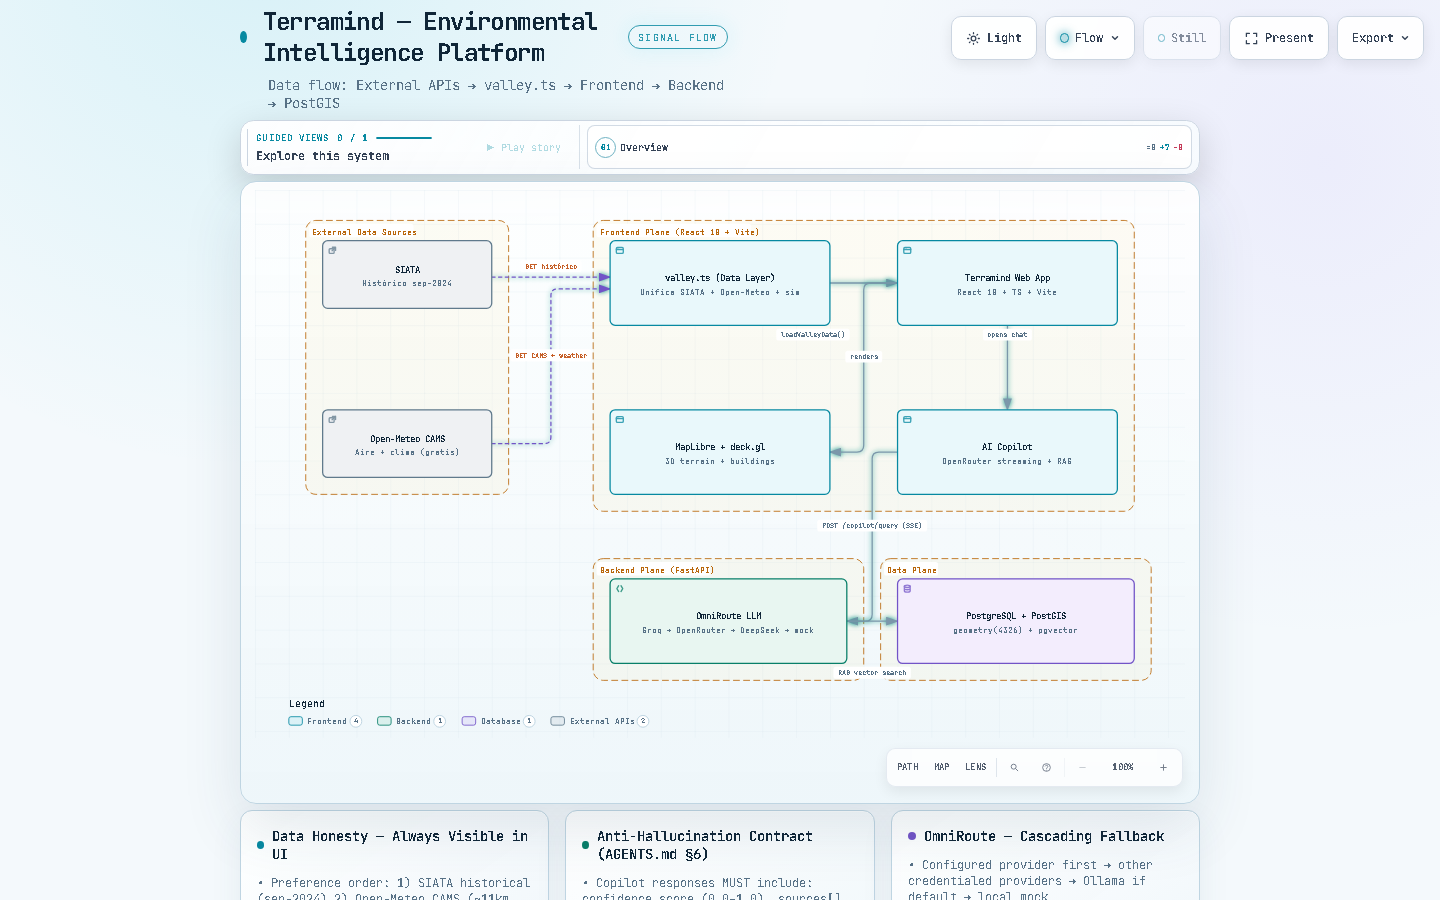
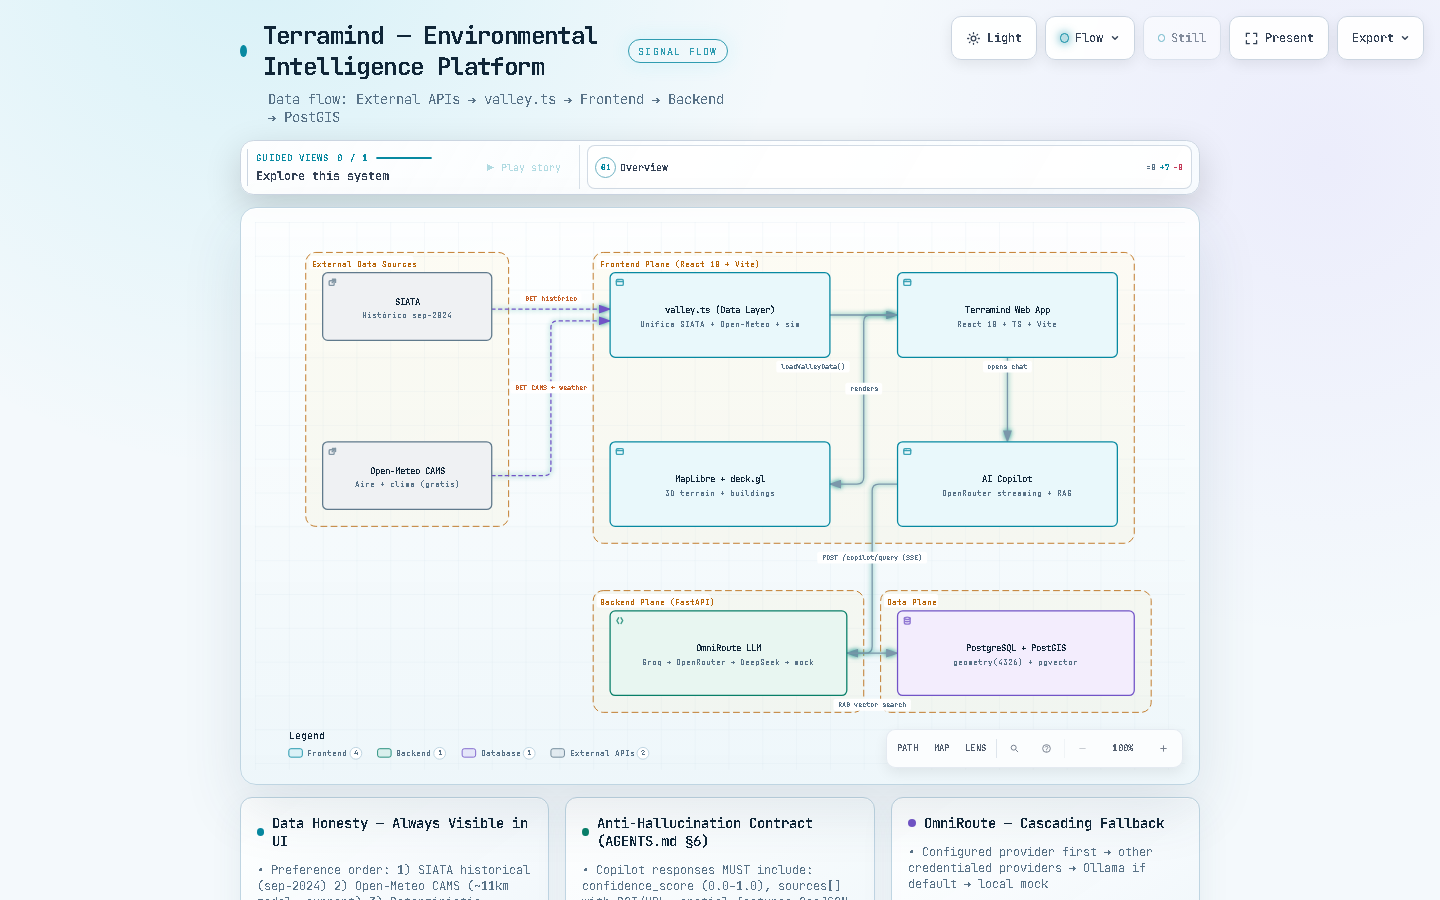
docs(readme): full RAG table, 11 tabs, verified diagram state

diff --git a/docs/architecture-terramind.html b/docs/architecture-terramind.html
@@ -5574,15 +5574,14 @@ OTHER DEALINGS IN THE FONT SOFTWARE.
       <div class="card">
         <div class="card-header">
           <div class="card-dot amber"></div>
-          <h3>Current State (PRD §11 — UI-First Integration)</h3>
+          <h3>Current State (verified in code)</h3>
         </div>
         <ul>
-          <li>&bull; ✅ Base 3D map + 10 SIATA stations geolocated</li>
-          <li>&bull; ✅ Fixed sidebar (260px) + floating chat widget</li>
-          <li>&bull; ⏳ Pending: 3D terrain + extruded buildings (OpenFreeMap)</li>
-          <li>&bull; ⏳ Pending: Dashboard modal overlay + 5 tabs + Recharts</li>
-          <li>&bull; ⏳ Pending: SSE streaming in chat + generation actions</li>
-          <li>&bull; ⏳ Pending: App.tsx wiring — Dashboard button opens overlay</li>
+          <li>&bull; ✅ 3D terrain + extruded buildings with toggle (AirMap, MapViewport, basemaps)</li>
+          <li>&bull; ✅ Dashboard overlay with 11 tabs wired from sidebar (App.tsx)</li>
+          <li>&bull; ✅ SSE streaming chat + generation actions (ChatWidget, openRouter)</li>
+          <li>&bull; ⏳ 100% live data without fallback (hybrid SIATA + Open-Meteo + simulated)</li>
+          <li>&bull; ⏳ Mobile responsive design (desktop-first per PRD §9)</li>
         </ul>
       </div>
     </div>

diff --git a/README.md b/README.md
@@ -44,7 +44,7 @@
 | Capacidad | Estado | Evidencia |
 |---|---|---|
 | Mapa 3D con terreno + edificios extruidos | ✅ Activo (con toggle) | `AirMap.tsx` (setTerrain), `MapViewport.tsx`, `basemaps.ts` (fill-extrusion) |
-| Dashboard overlay con 5 pestañas | ✅ Cableado | `App.tsx:395` (`dashboardOpen && <AirDashboard/>`) |
+| Dashboard overlay con 11 pestañas | ✅ Cableado | `App.tsx:395` (`dashboardOpen && <AirDashboard/>`) |
 | Chat con streaming SSE | ✅ Activo | `ChatWidget.tsx`, `openRouter.ts` (getReader) |
 | Datos híbridos SIATA + Open-Meteo + simulado | ✅ Activo | `valley.ts` (anti-corruption layer, 17 servicios) |
 | Backend FastAPI (copilot, health, rag, spatial) | ✅ Implementado | `apps/api/app/api/v1/endpoints/` |
@@ -160,8 +160,22 @@ Apache 2.0 — ver [LICENSE](./LICENSE).
 
 Normativa ambiental oficial indexada para el copiloto con citas (`data/rag_library/` — ver `MANIFEST.csv` y `README_INGESTA.md`):
 
-- **Normas**: Decreto 1076/2015, Ley 99/1993, Ley 1333/2009, Res. 631/2015 (vertimientos), Res. 2254/2017 (aire), Res. 627/2006 (ruido), Constitución 1991, Leyes 1931/2018 y 2169/2021 (clima), NTC-ISO 14001, NDC Colombia
-- **Nota**: los PDF de Res. 631/2254 de MinAmbiente son escaneados sin texto; el RAG indexa sus versiones HTML oficiales con texto. NDC 3.0 y E2050 (UNFCCC) requieren descarga manual.
+| Documento | Chunks | Estado |
+|---|---|---|
+| Decreto 1076/2015 — Decreto Único Sector Ambiente | 4,899 | ✅ Ingerido |
+| Ley 99/1993 — Crea MinAmbiente y SINA | 326 | ✅ Ingerido |
+| Ley 1333/2009 — Régimen sancionatorio ambiental | 108 | ✅ Ingerido |
+| Res. 627/2006 — Ruido ambiental | 145 | ✅ Ingerido |
+| Constitución 1991 — Derecho al ambiente sano | 664 | ✅ Ingerido |
+| NTC-ISO 14001/2015 — Gestión ambiental | 257 | ✅ Ingerido |
+| Ley 1931/2018 — Cambio climático | 106 | ✅ Ingerido |
+| Ley 2169/2021 — Carbono neutralidad | 175 | ✅ Ingerido |
+| NDC Colombia (MinAmbiente) | 23 | ✅ Ingerido |
+| Res. 631/2015 — Vertimientos (HTML oficial) | 346 | ✅ Ingerido |
+| Res. 2254/2017 — Calidad del aire (HTML oficial) | 17 | ✅ Ingerido |
+| Res. 631/2015 y 2254/2017 (PDF MinAmbiente) | 0 | ⚠ Escaneados sin texto — se indexa la versión HTML |
+| NDC 3.0 y E2050 Colombia (UNFCCC) | — | ⏳ Descarga manual pendiente (ver MANIFEST) |
+
 - **Recarga**: el RAG en memoria se pierde al reiniciar el API — ver comandos de re-ingesta en `data/rag_library/README_INGESTA.md`.
 
 ---
